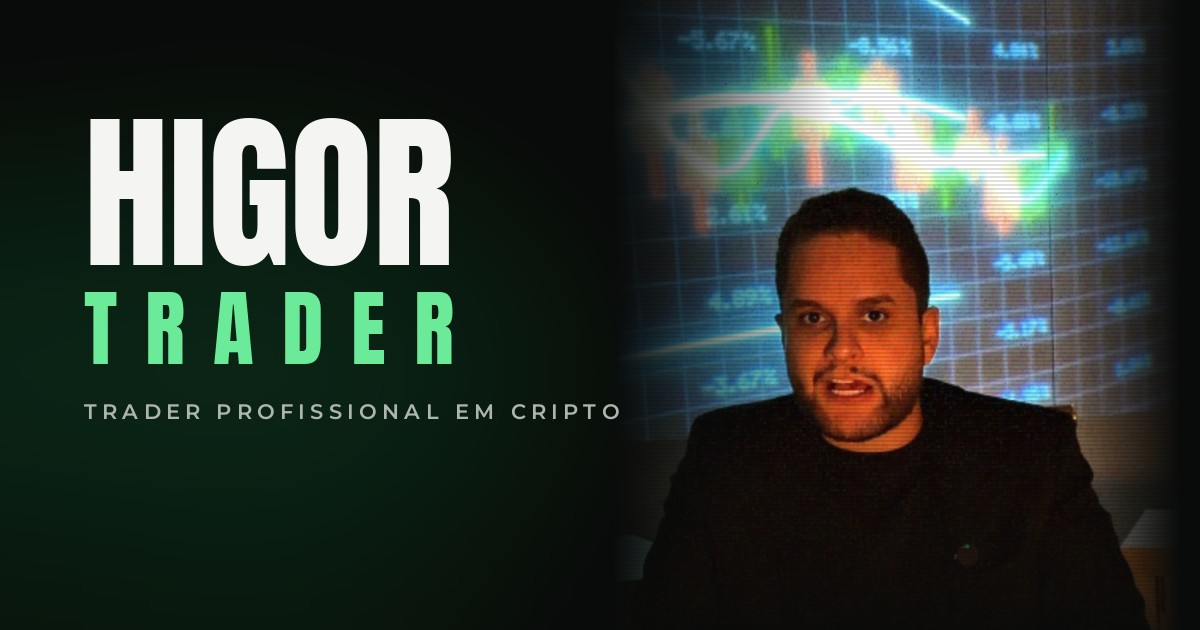
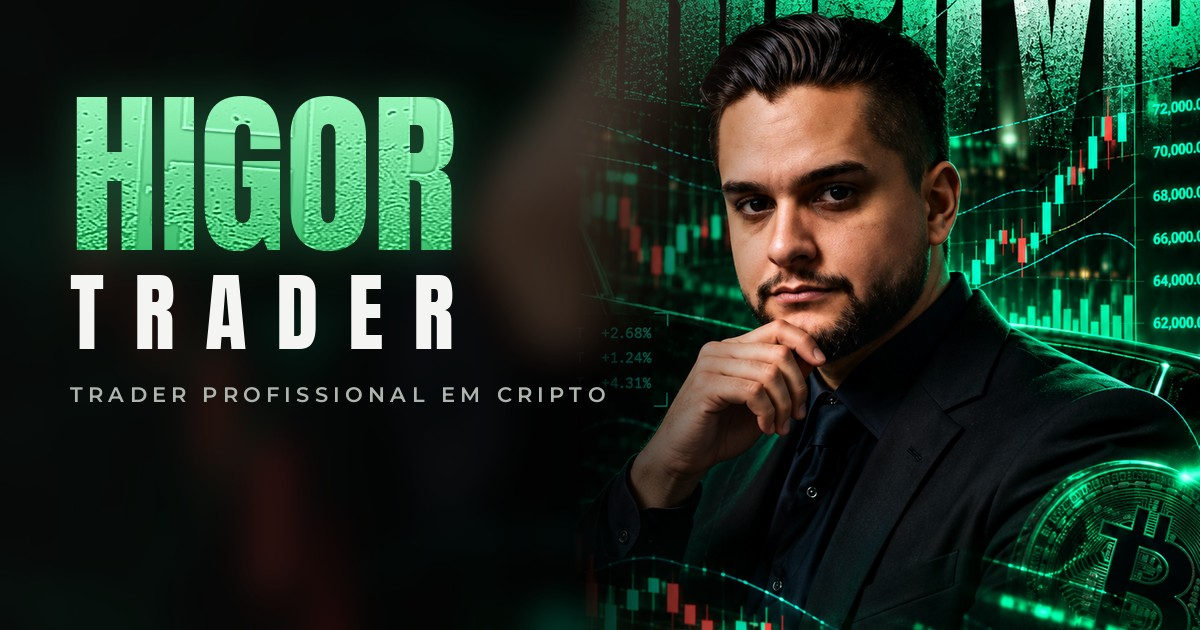
feat: Meta Pixel, links reais dos cards, TikTok e nova OG no estilo do Grupo VIP
- Pixel 1850900262951483 com PageView e evento Lead nos botões dos cards
- Academy (Curseduca), Ao vivo (Telegram) e Grupo VIP (WhatsApp)
- TikTok no rodapé ao lado do Instagram
- Imagem de compartilhamento com a arte da capa do Grupo VIP

diff --git a/src/components/ServicesCarousel.tsx b/src/components/ServicesCarousel.tsx
@@ -4,8 +4,8 @@ import capaAcademy from "@/assets/capa-academy.jpg";
 import capaAoVivo from "@/assets/capa-aovivo.jpg";
 import capaVip from "@/assets/capa-vip.jpg";
 
-// TODO: trocar pelo link real do Grupo VIP (checkout ou página de vendas)
-const VIP_LINK = "#";
+const VIP_LINK =
+  "https://api.whatsapp.com/send?phone=5531935025989&text=Ol%C3%A1%2C%20vim%20do%20link%20da%20Bio%20e%20quero%20operar%20com%20o%20Higor!";
 
 const services = [
   {
@@ -15,7 +15,8 @@ const services = [
     desc: "A formação completa da Cripto Trader Academy, do zero ao avançado: análise, estratégia e gestão de banca. Você entende o motivo de cada entrada, como controlar o risco e quando ficar de fora. Acesso 100% gratuito.",
     image: capaAcademy,
     ctaLabel: "Quero minha vaga",
-    ctaLink: "https://criptotraderacademy.com/",
+    ctaLink:
+      "https://criptotraderacademy.curseduca.pro/register?redirect=L20vbGVzc29ucy9hY2Vzc28tZ3JhdHVpdG8tYmlvLWluc3RhLTE3OTAxODgyMDIwODc%3D",
   },
   {
     id: 2,
@@ -23,7 +24,7 @@ const services = [
     desc: "Entre no grupo gratuito no Telegram, com mais de 30 mil membros, e acompanhe o meu dia a dia no mercado: análises, operações e o raciocínio por trás de cada decisão.",
     image: capaAoVivo,
     ctaLabel: "Entrar no grupo gratuito",
-    ctaLink: "https://bit.ly/higortradefree",
+    ctaLink: "https://t.me/+PC6syg3TdGc0YjUx",
   },
   {
     id: 3,
@@ -108,6 +109,11 @@ const ServicesCarousel = () => {
             </p>
             <a
               href={activeService.ctaLink}
+              onClick={() =>
+                (window as unknown as { fbq?: (...args: unknown[]) => void }).fbq?.("track", "Lead", {
+                  content_name: activeService.label,
+                })
+              }
               target="_blank"
               rel="noopener noreferrer"
               className="inline-flex items-center gap-1.5 bg-primary hover:bg-primary/80 text-primary-foreground text-[12px] font-bold tracking-[0.5px] px-3 py-1.5 rounded-md transition-colors"

diff --git a/index.html b/index.html
@@ -19,9 +19,22 @@
     <meta property="og:image:height" content="630" />
     <meta name="twitter:card" content="summary_large_image" />
     <meta name="twitter:image" content="/og-image.jpg" />
+
+    <!-- Meta Pixel -->
+    <script>
+      !function(f,b,e,v,n,t,s){if(f.fbq)return;n=f.fbq=function(){n.callMethod?
+      n.callMethod.apply(n,arguments):n.queue.push(arguments)};if(!f._fbq)f._fbq=n;
+      n.push=n;n.loaded=!0;n.version='2.0';n.queue=[];t=b.createElement(e);t.async=!0;
+      t.src=v;s=b.getElementsByTagName(e)[0];s.parentNode.insertBefore(t,s)}(window,
+      document,'script','https://connect.facebook.net/en_US/fbevents.js');
+      fbq('init', '1850900262951483');
+      fbq('track', 'PageView');
+    </script>
+    <!-- End Meta Pixel -->
   </head>
 
   <body>
+    <noscript><img height="1" width="1" style="display:none" src="https://www.facebook.com/tr?id=1850900262951483&ev=PageView&noscript=1" /></noscript>
     <div id="root"></div>
     <script type="module" src="/src/main.tsx"></script>
   </body>

diff --git a/src/components/Footer.tsx b/src/components/Footer.tsx
@@ -6,6 +6,7 @@ const Footer = () => (
     <div className="flex justify-center gap-4 my-3.5">
       {[
         { name: "instagram", url: "https://www.instagram.com/higortraderjr/" },
+        { name: "tiktok", url: "https://www.tiktok.com/@higorbs_trader" },
       ].map((s) => (
         <a
           key={s.name}
@@ -32,6 +33,12 @@ const SocialIcon = ({ name }: { name: string }) => {
         <rect x="2" y="2" width="20" height="20" rx="5" />
         <circle cx="12" cy="12" r="5" />
         <circle cx="17.5" cy="6.5" r="1.5" />
+      </svg>
+    );
+  if (name === "tiktok")
+    return (
+      <svg className={cls} viewBox="0 0 24 24" fill="currentColor">
+        <path d="M16.6 5.82A4.28 4.28 0 0 1 15.54 3h-3.09v12.4a2.59 2.59 0 0 1-2.59 2.5c-1.42 0-2.6-1.16-2.6-2.6 0-1.72 1.66-3.01 3.37-2.48V9.66c-3.45-.46-6.47 2.22-6.47 5.64 0 3.33 2.76 5.7 5.69 5.7 3.14 0 5.69-2.55 5.69-5.7V9.01a7.35 7.35 0 0 0 4.3 1.38V7.3s-1.88.09-3.24-1.48z" />
       </svg>
     );
   if (name === "youtube")
